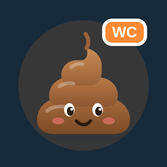
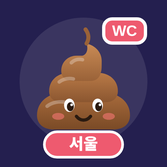
지역별 앱 아이콘: 배경색·강조색과 지역 이름을 넣어 다른 지역 앱과 구분, 홈 화면 이름도 지역 표시
Claude-Session: https://claude.ai/code/session_01Tujojwg49QDAoe4rT8CncF

diff --git a/index.html b/index.html
@@ -7,9 +7,9 @@
   <meta name="description" content="서울·경기 공중화장실 찾기 — 지도, 편의시설 필터, 길찾기, 4개 언어, 또롱이 음성 안내" />
   <meta name="apple-mobile-web-app-capable" content="yes" />
   <meta name="apple-mobile-web-app-status-bar-style" content="default" />
-  <meta name="apple-mobile-web-app-title" content="Ddong" />
+  <meta name="apple-mobile-web-app-title" content="Ddong 서울" />
   <link rel="manifest" href="manifest.webmanifest" />
[2 lines of base64/hex data omitted]
   <link rel="icon" href="favicon.ico" sizes="any" />
   <link rel="icon" type="image/png" sizes="32x32" href="icons/icon-32.png" />
   <link rel="icon" type="image/png" sizes="192x192" href="icons/icon-192.png" />

diff --git a/sw.js b/sw.js
@@ -1,5 +1,5 @@
 // 서비스워커: 네트워크 우선(항상 최신), 오프라인일 때만 캐시 사용
-const CACHE = "seoul-toilet-v5";
+const CACHE = "seoul-toilet-v6";
 const SHELL = ["./", "index.html", "css/app.css", "fonts/ddong-logo.woff", "js/app.js", "js/i18n.js", "js/icons.js", "js/sos.js", "data/toilets.json", "ddong.mp3"];
 self.addEventListener("install", (e) => { e.waitUntil(caches.open(CACHE).then((c) => c.addAll(SHELL)).then(() => self.skipWaiting())); });
 self.addEventListener("activate", (e) => { e.waitUntil(caches.keys().then((ks) => Promise.all(ks.filter((k) => k !== CACHE).map((k) => caches.delete(k)))).then(() => self.clients.claim())); });
